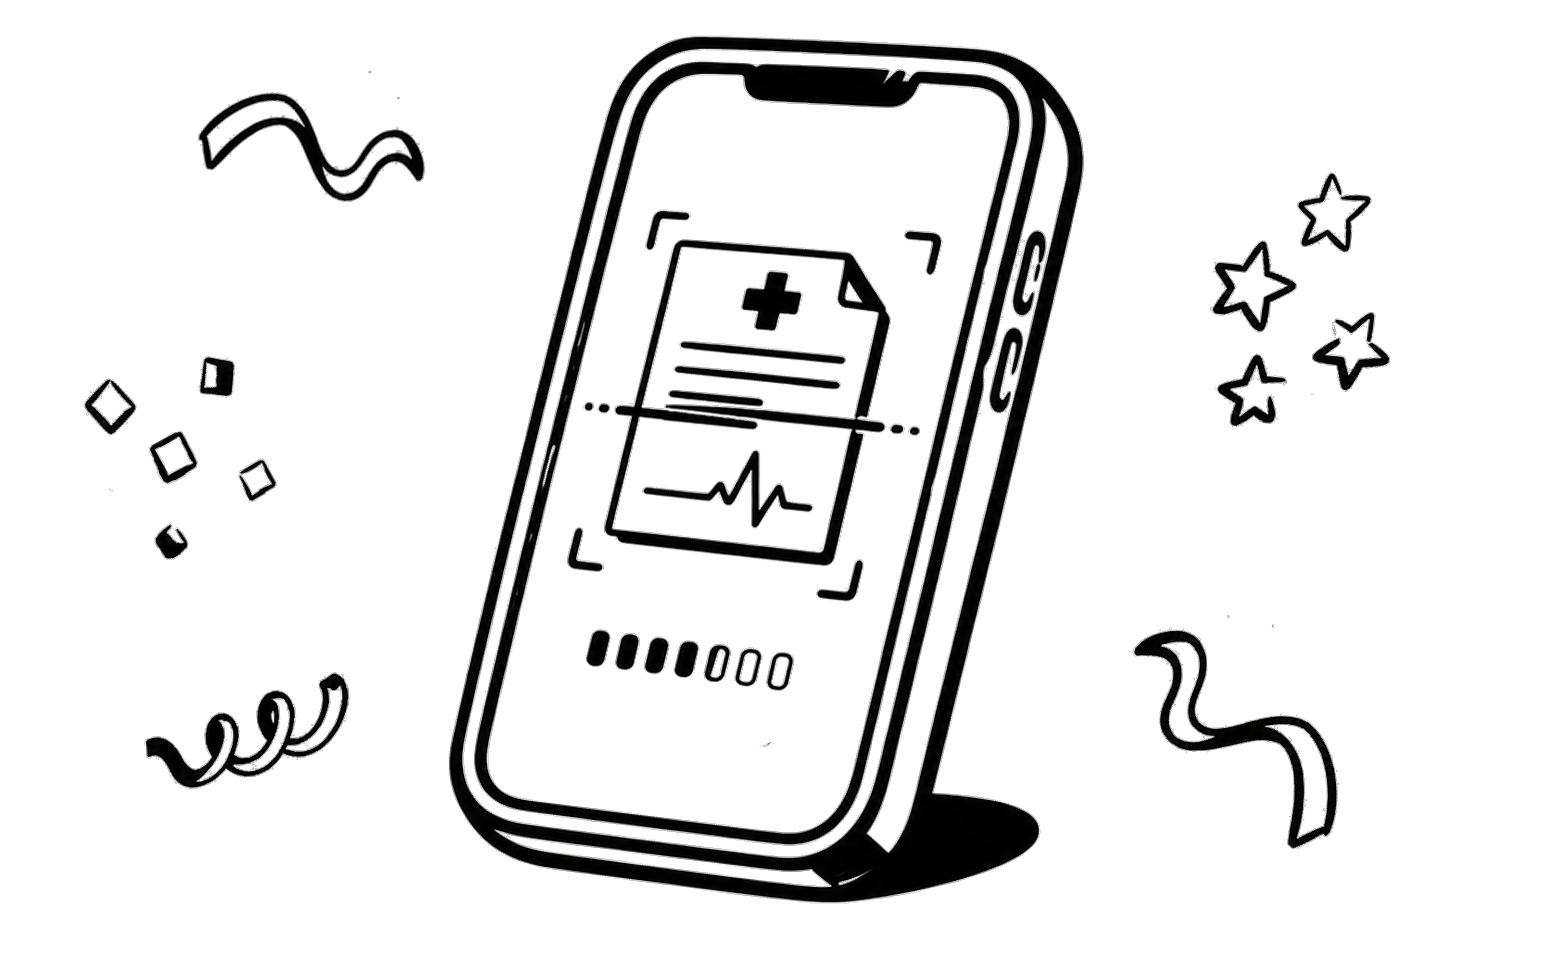
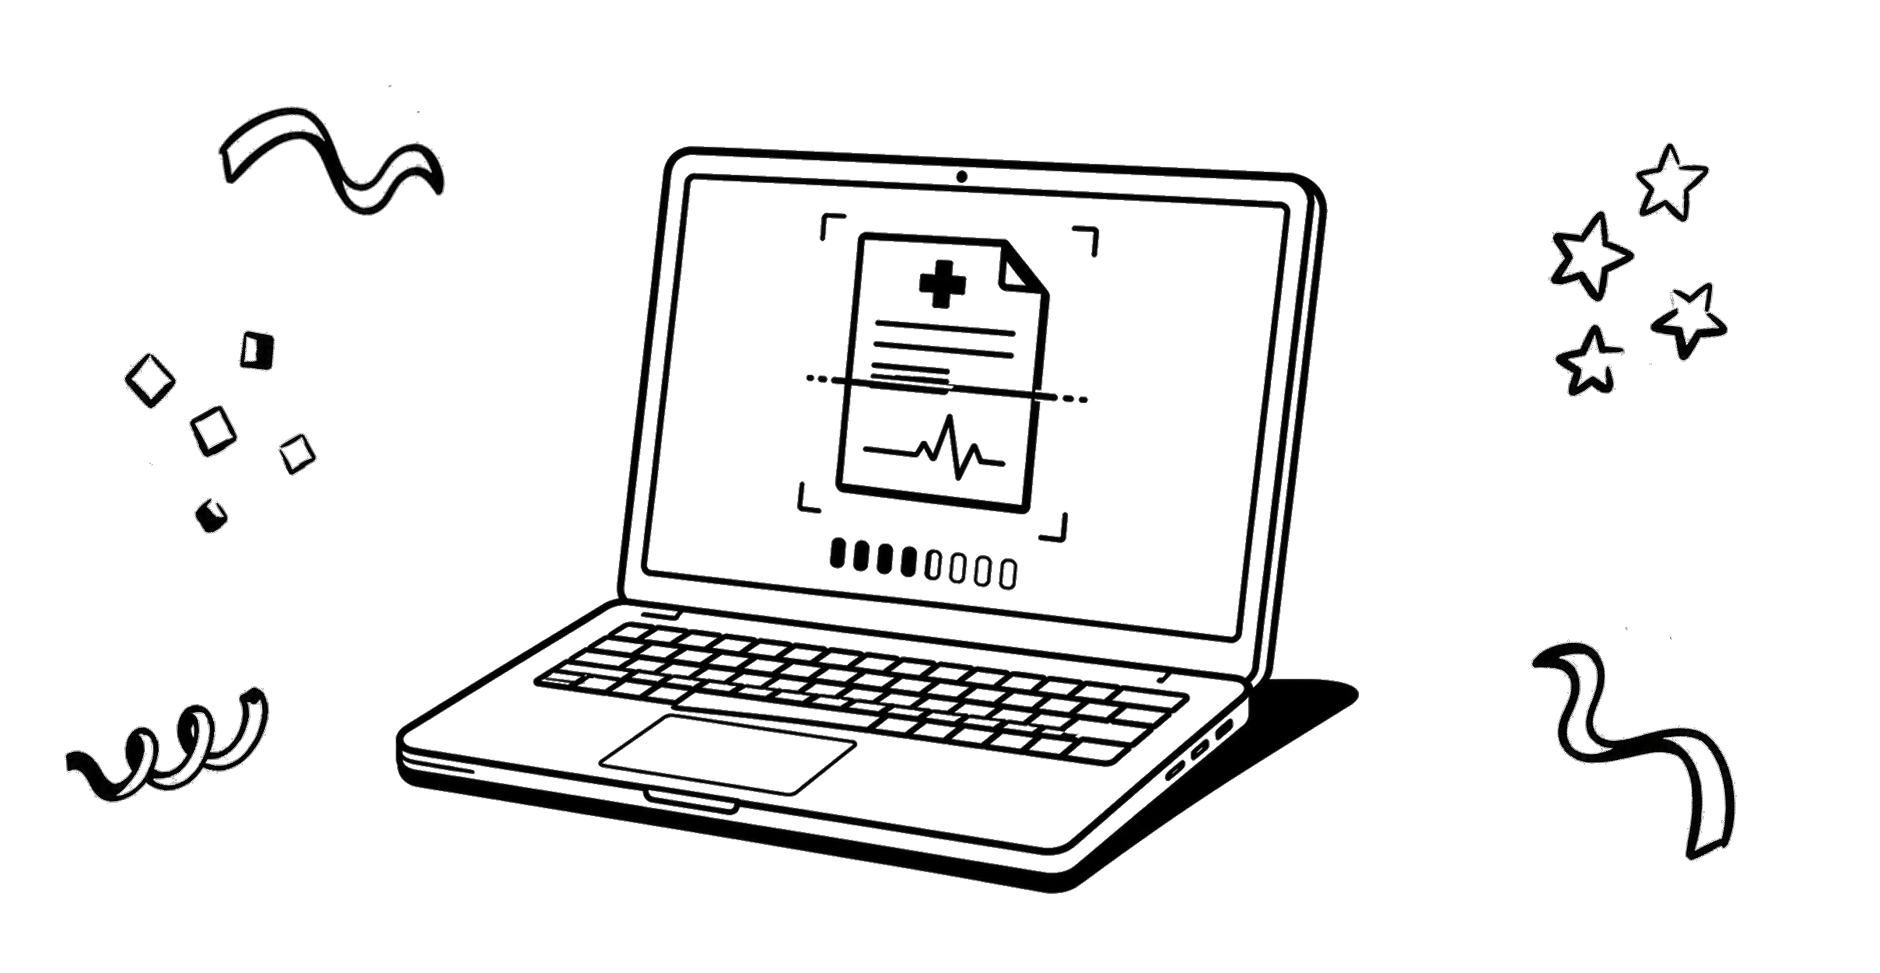
feat(api): update chat safety logic & severity detection + sync landing assets

diff --git a/packages/api/src/router/chat.ts b/packages/api/src/router/chat.ts
@@ -9,9 +9,9 @@ import { assembleDocumentContext } from "../services/contextAssembler";
 import { callLLMAPI } from "../services/llm";
 import { protectedProcedure } from "../trpc";
 
-type ChatSeverity = "LOW" | "MODERATE" | "HIGH";
+export type ChatSeverity = "LOW" | "MODERATE" | "HIGH";
 
-interface ChatSafety {
+export interface ChatSafety {
   severity: ChatSeverity;
   disclaimer?: string;
   bookingSuggestion?: string;
